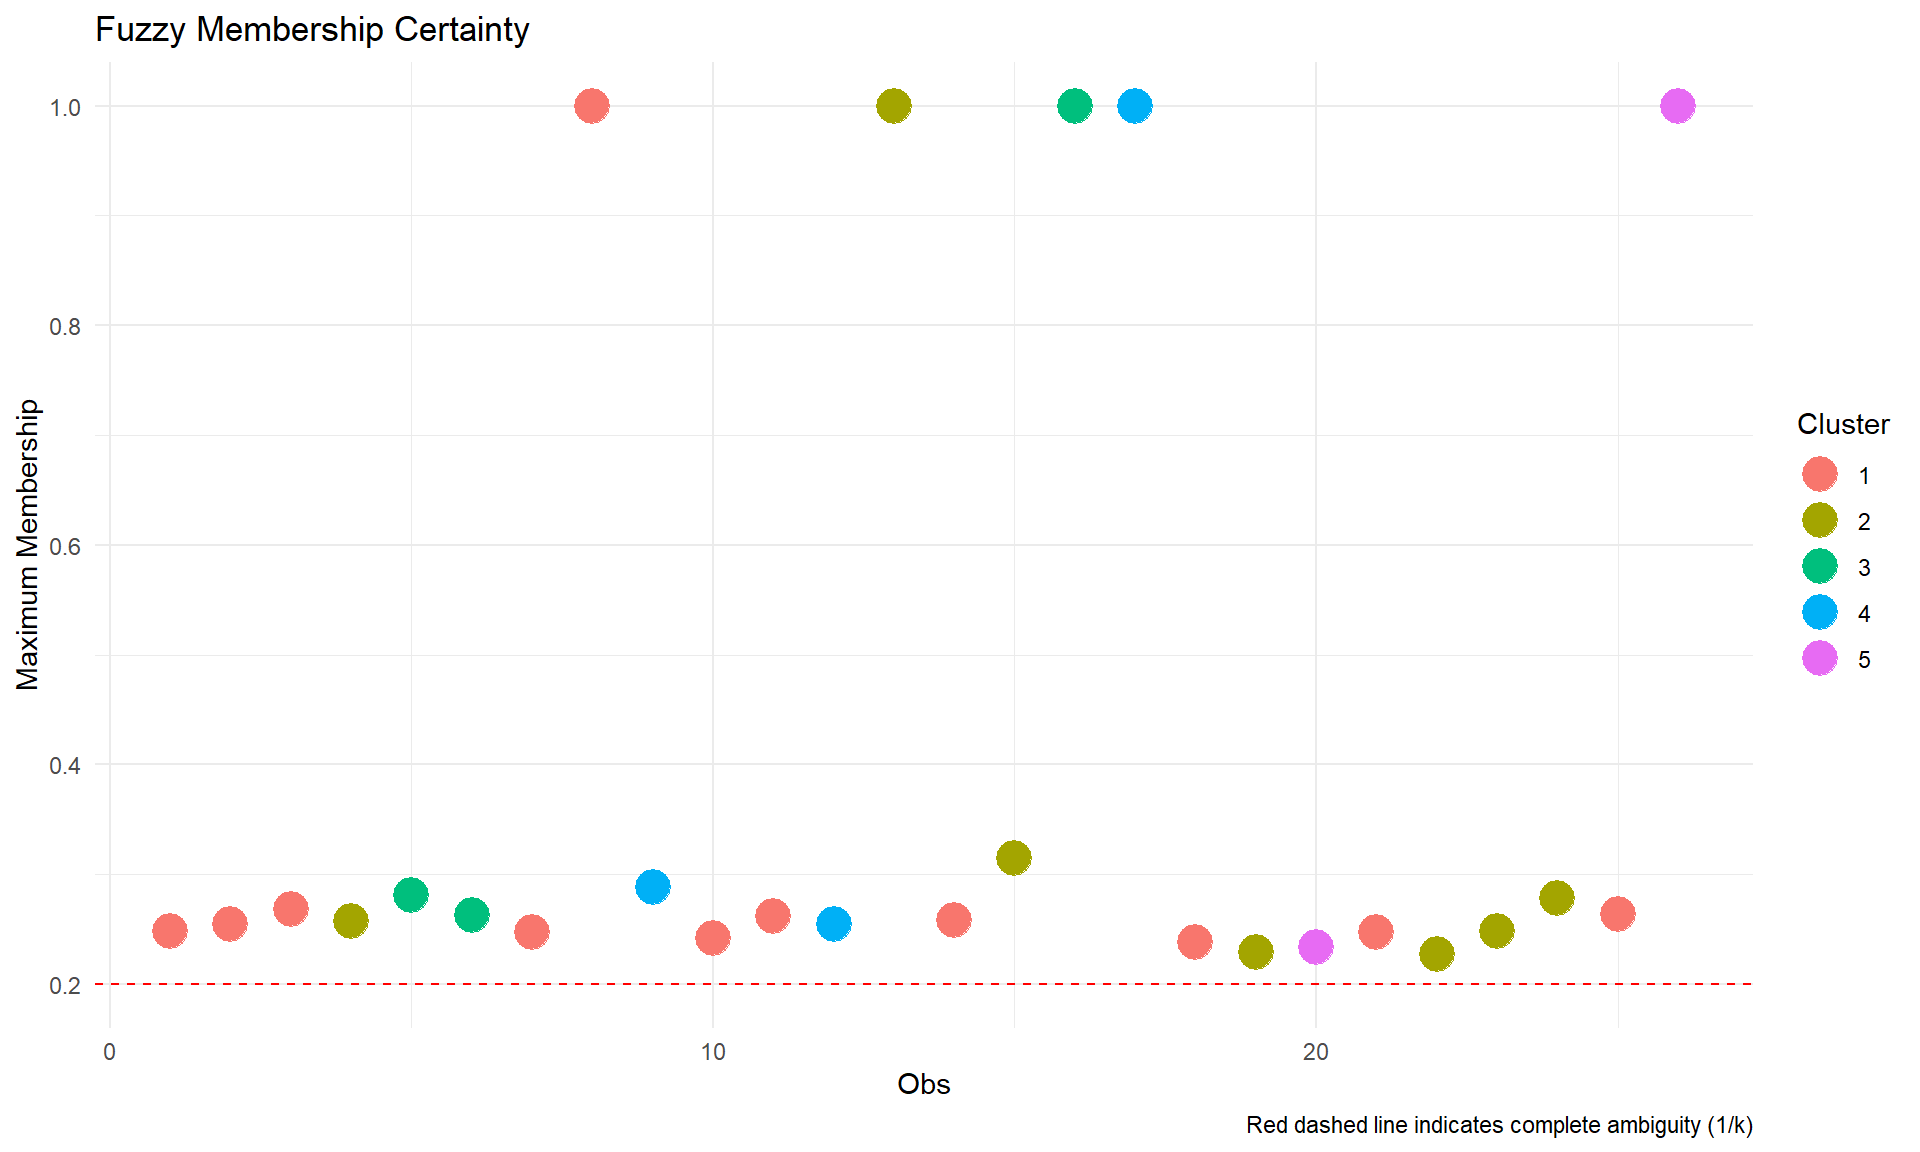
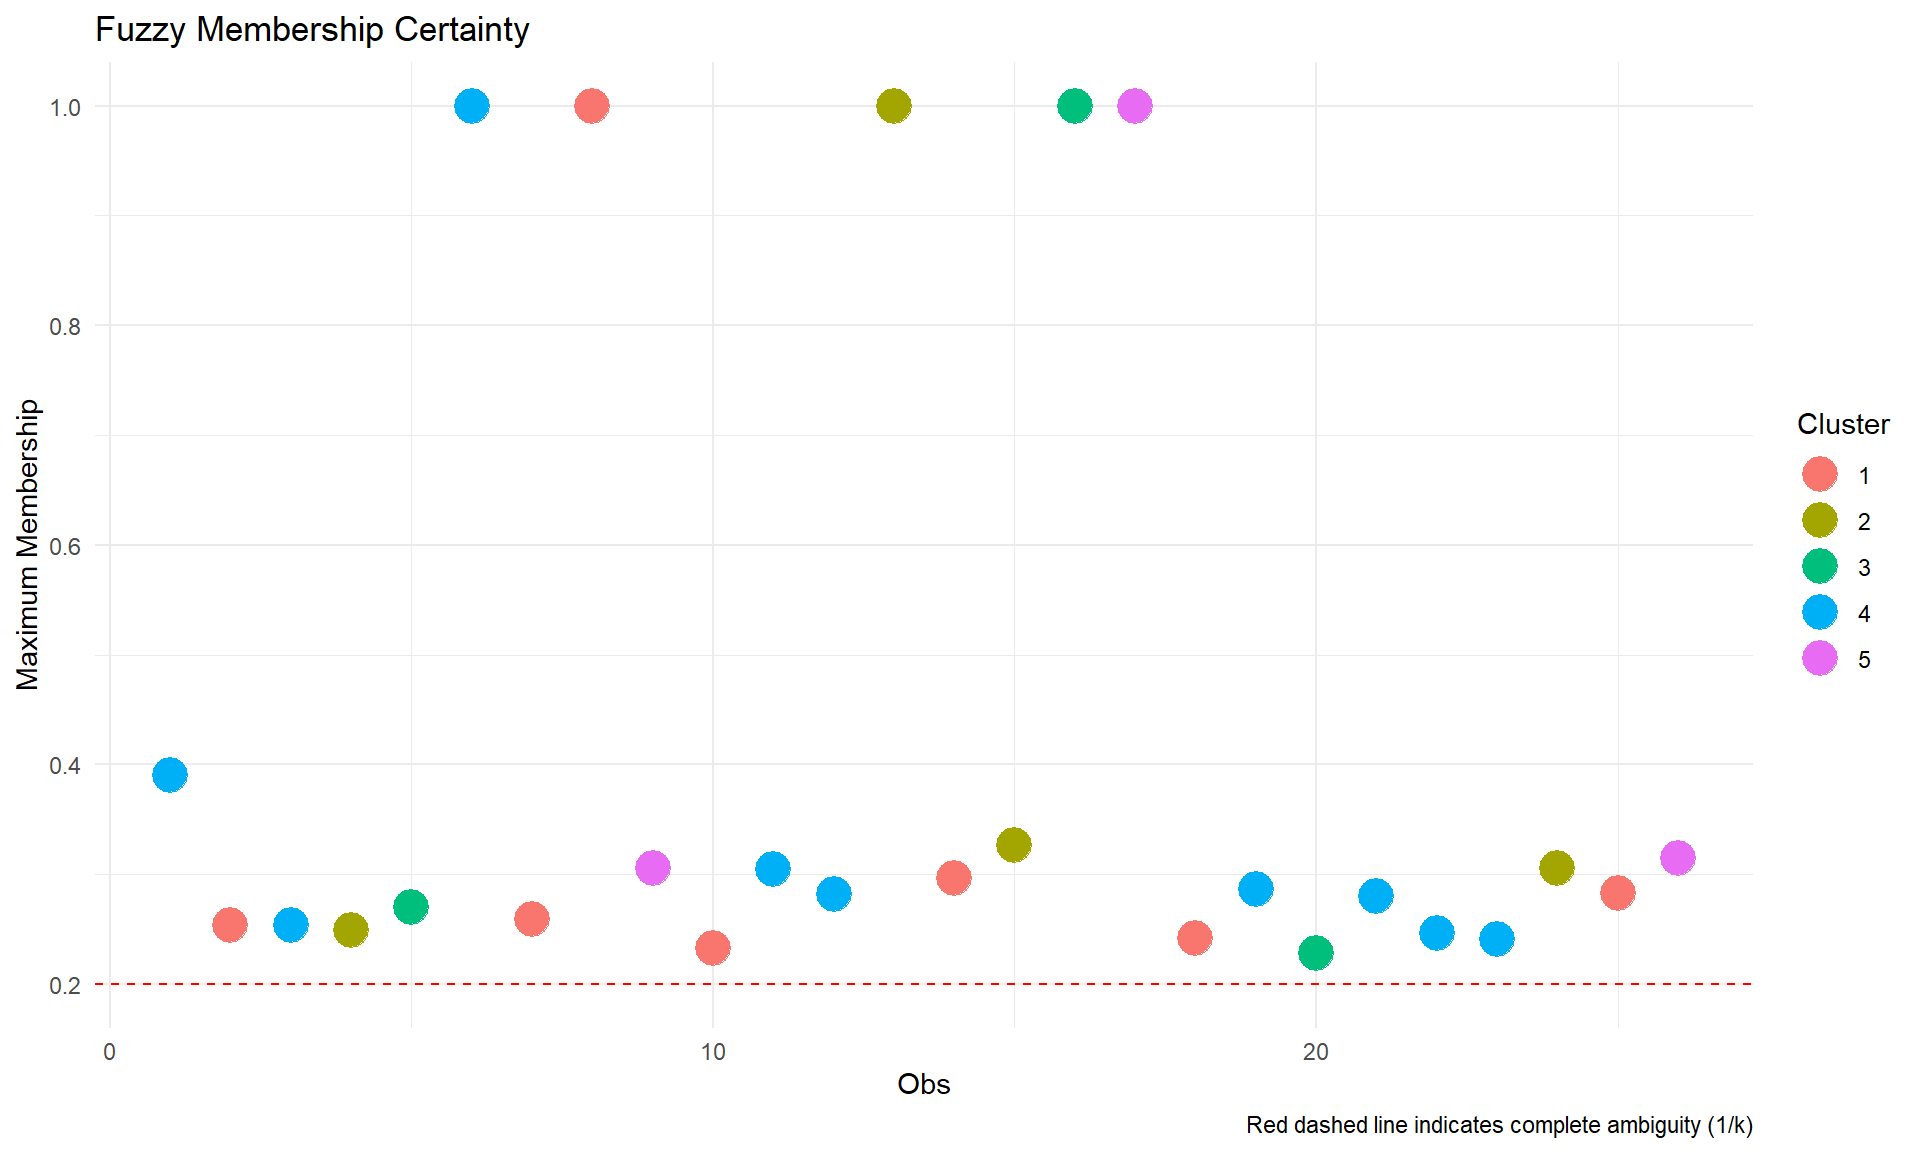
more same

diff --git a/Text/Reports/Report.html b/Text/Reports/Report.html
@@ -4270,7 +4270,7 @@ window.Quarto = {
 <p>Due to the ambiguous clustering, we opted to perform more cluster analyses to determine if this was a good fit.</p>
 <p>MANHATTAN NOT EUCLEDIAN.</p>
 <p><strong>3.3 Cluster Analysis</strong></p>
-<p>Hierarchical cluster using Manhattan Distance as a measure. Because more robust to outliers then Eucledian.</p>
+<p>Hierarchical cluster using Manhattan Distance as a measure. Because more robust to outliers then Eucledian etc.</p>
 <div class="cell">
 <div class="cell-output-display">
 <div>
@@ -4301,59 +4301,59 @@ window.Quarto = {
 <tbody>
 <tr class="odd">
 <td style="text-align: left;">2</td>
-<td style="text-align: right;">0.2478632</td>
-<td style="text-align: right;">0.2182820</td>
-<td style="text-align: right;">0.2164709</td>
-<td style="text-align: right;">0.1744604</td>
-<td style="text-align: right;">0.1429234</td>
+<td style="text-align: right;">0.1762421</td>
+<td style="text-align: right;">0.1552085</td>
+<td style="text-align: right;">0.1539207</td>
+<td style="text-align: right;">0.3905794</td>
+<td style="text-align: right;">0.1240493</td>
 </tr>
 <tr class="even">
 <td style="text-align: left;">3</td>
-<td style="text-align: right;">0.2546501</td>
-<td style="text-align: right;">0.1633232</td>
-<td style="text-align: right;">0.1910660</td>
-<td style="text-align: right;">0.1945034</td>
-<td style="text-align: right;">0.1964572</td>
+<td style="text-align: right;">0.2538351</td>
+<td style="text-align: right;">0.1628005</td>
+<td style="text-align: right;">0.1904545</td>
+<td style="text-align: right;">0.1990289</td>
+<td style="text-align: right;">0.1938810</td>
 </tr>
 <tr class="odd">
 <td style="text-align: left;">5</td>
-<td style="text-align: right;">0.2680416</td>
-<td style="text-align: right;">0.1717810</td>
-<td style="text-align: right;">0.2355131</td>
-<td style="text-align: right;">0.1701957</td>
-<td style="text-align: right;">0.1544686</td>
+<td style="text-align: right;">0.2366273</td>
+<td style="text-align: right;">0.1516484</td>
+<td style="text-align: right;">0.2079111</td>
+<td style="text-align: right;">0.2535644</td>
+<td style="text-align: right;">0.1502489</td>
 </tr>
 <tr class="even">
 <td style="text-align: left;">6</td>
-<td style="text-align: right;">0.2462050</td>
-<td style="text-align: right;">0.2574441</td>
-<td style="text-align: right;">0.1859054</td>
-<td style="text-align: right;">0.1772905</td>
-<td style="text-align: right;">0.1331549</td>
+<td style="text-align: right;">0.2384493</td>
+<td style="text-align: right;">0.2493343</td>
+<td style="text-align: right;">0.1800492</td>
+<td style="text-align: right;">0.1604615</td>
+<td style="text-align: right;">0.1717057</td>
 </tr>
 <tr class="odd">
 <td style="text-align: left;">8</td>
-<td style="text-align: right;">0.2576751</td>
-<td style="text-align: right;">0.1455334</td>
-<td style="text-align: right;">0.2812046</td>
-<td style="text-align: right;">0.1657537</td>
-<td style="text-align: right;">0.1498332</td>
+<td style="text-align: right;">0.2475332</td>
+<td style="text-align: right;">0.1398054</td>
+<td style="text-align: right;">0.2701366</td>
+<td style="text-align: right;">0.1832950</td>
+<td style="text-align: right;">0.1592298</td>
 </tr>
 <tr class="even">
 <td style="text-align: left;">9</td>
-<td style="text-align: right;">0.2329527</td>
-<td style="text-align: right;">0.2045676</td>
-<td style="text-align: right;">0.2626731</td>
-<td style="text-align: right;">0.1678411</td>
-<td style="text-align: right;">0.1319655</td>
+<td style="text-align: right;">0.0000000</td>
+<td style="text-align: right;">0.0000000</td>
+<td style="text-align: right;">0.0000000</td>
+<td style="text-align: right;">1.0000000</td>
+<td style="text-align: right;">0.0000000</td>
 </tr>
 <tr class="odd">
 <td style="text-align: left;">10</td>
-<td style="text-align: right;">0.2475159</td>
-<td style="text-align: right;">0.1640926</td>
-<td style="text-align: right;">0.2155267</td>
-<td style="text-align: right;">0.1643918</td>
-<td style="text-align: right;">0.2084730</td>
+<td style="text-align: right;">0.2590175</td>
+<td style="text-align: right;">0.1717177</td>
+<td style="text-align: right;">0.2255418</td>
+<td style="text-align: right;">0.1716921</td>
+<td style="text-align: right;">0.1720308</td>
 </tr>
 <tr class="even">
 <td style="text-align: left;">11</td>
@@ -4365,35 +4365,35 @@ window.Quarto = {
 </tr>
 <tr class="odd">
 <td style="text-align: left;">12</td>
-<td style="text-align: right;">0.2835971</td>
-<td style="text-align: right;">0.1917054</td>
-<td style="text-align: right;">0.1242925</td>
-<td style="text-align: right;">0.2885014</td>
-<td style="text-align: right;">0.1119036</td>
+<td style="text-align: right;">0.3005691</td>
+<td style="text-align: right;">0.2031781</td>
+<td style="text-align: right;">0.1317308</td>
+<td style="text-align: right;">0.0587552</td>
+<td style="text-align: right;">0.3057668</td>
 </tr>
 <tr class="even">
 <td style="text-align: left;">15</td>
-<td style="text-align: right;">0.2418673</td>
-<td style="text-align: right;">0.2276342</td>
-<td style="text-align: right;">0.1717754</td>
-<td style="text-align: right;">0.1705000</td>
-<td style="text-align: right;">0.1882231</td>
+<td style="text-align: right;">0.2324165</td>
+<td style="text-align: right;">0.2187395</td>
+<td style="text-align: right;">0.1650634</td>
+<td style="text-align: right;">0.2199428</td>
+<td style="text-align: right;">0.1638378</td>
 </tr>
 <tr class="odd">
 <td style="text-align: left;">16</td>
-<td style="text-align: right;">0.2621603</td>
-<td style="text-align: right;">0.1896658</td>
-<td style="text-align: right;">0.2351343</td>
-<td style="text-align: right;">0.1572324</td>
-<td style="text-align: right;">0.1558072</td>
+<td style="text-align: right;">0.2157932</td>
+<td style="text-align: right;">0.1561205</td>
+<td style="text-align: right;">0.1935472</td>
+<td style="text-align: right;">0.3051156</td>
+<td style="text-align: right;">0.1294234</td>
 </tr>
 <tr class="even">
 <td style="text-align: left;">18</td>
-<td style="text-align: right;">0.2033970</td>
-<td style="text-align: right;">0.1847368</td>
-<td style="text-align: right;">0.1823396</td>
-<td style="text-align: right;">0.2548897</td>
-<td style="text-align: right;">0.1746369</td>
+<td style="text-align: right;">0.1769465</td>
+<td style="text-align: right;">0.1607130</td>
+<td style="text-align: right;">0.1586275</td>
+<td style="text-align: right;">0.2819701</td>
+<td style="text-align: right;">0.2217429</td>
 </tr>
 <tr class="odd">
 <td style="text-align: left;">20</td>
@@ -4405,19 +4405,19 @@ window.Quarto = {
 </tr>
 <tr class="even">
 <td style="text-align: left;">23</td>
-<td style="text-align: right;">0.2581919</td>
-<td style="text-align: right;">0.1366234</td>
-<td style="text-align: right;">0.2247586</td>
-<td style="text-align: right;">0.1675732</td>
-<td style="text-align: right;">0.2128529</td>
+<td style="text-align: right;">0.2968902</td>
+<td style="text-align: right;">0.1571009</td>
+<td style="text-align: right;">0.2584459</td>
+<td style="text-align: right;">0.0948735</td>
+<td style="text-align: right;">0.1926895</td>
 </tr>
 <tr class="odd">
 <td style="text-align: left;">24</td>
-<td style="text-align: right;">0.2234546</td>
-<td style="text-align: right;">0.3145997</td>
-<td style="text-align: right;">0.1673139</td>
-<td style="text-align: right;">0.1923180</td>
-<td style="text-align: right;">0.1023137</td>
+<td style="text-align: right;">0.2316784</td>
+<td style="text-align: right;">0.3261780</td>
+<td style="text-align: right;">0.1734716</td>
+<td style="text-align: right;">0.0692759</td>
+<td style="text-align: right;">0.1993960</td>
 </tr>
 <tr class="even">
 <td style="text-align: left;">26</td>
@@ -4432,80 +4432,80 @@ window.Quarto = {
 <td style="text-align: right;">0.0000000</td>
 <td style="text-align: right;">0.0000000</td>
 <td style="text-align: right;">0.0000000</td>
-<td style="text-align: right;">1.0000000</td>
 <td style="text-align: right;">0.0000000</td>
+<td style="text-align: right;">1.0000000</td>
 </tr>
 <tr class="even">
 <td style="text-align: left;">29</td>
-<td style="text-align: right;">0.2378132</td>
-<td style="text-align: right;">0.1684142</td>
-<td style="text-align: right;">0.2189088</td>
-<td style="text-align: right;">0.1923234</td>
-<td style="text-align: right;">0.1825405</td>
+<td style="text-align: right;">0.2414557</td>
+<td style="text-align: right;">0.1709938</td>
+<td style="text-align: right;">0.2222618</td>
+<td style="text-align: right;">0.1700195</td>
+<td style="text-align: right;">0.1952692</td>
 </tr>
 <tr class="odd">
 <td style="text-align: left;">30</td>
-<td style="text-align: right;">0.2153151</td>
-<td style="text-align: right;">0.2287914</td>
-<td style="text-align: right;">0.1996461</td>
-<td style="text-align: right;">0.1903551</td>
-<td style="text-align: right;">0.1658923</td>
+<td style="text-align: right;">0.1842854</td>
+<td style="text-align: right;">0.1958196</td>
+<td style="text-align: right;">0.1708745</td>
+<td style="text-align: right;">0.2860979</td>
+<td style="text-align: right;">0.1629225</td>
 </tr>
 <tr class="even">
 <td style="text-align: left;">31</td>
-<td style="text-align: right;">0.1968916</td>
-<td style="text-align: right;">0.1685134</td>
-<td style="text-align: right;">0.2231631</td>
-<td style="text-align: right;">0.1782442</td>
-<td style="text-align: right;">0.2331877</td>
+<td style="text-align: right;">0.2012858</td>
+<td style="text-align: right;">0.1722743</td>
+<td style="text-align: right;">0.2281437</td>
+<td style="text-align: right;">0.2160739</td>
+<td style="text-align: right;">0.1822222</td>
 </tr>
 <tr class="odd">
 <td style="text-align: left;">32</td>
-<td style="text-align: right;">0.2473063</td>
-<td style="text-align: right;">0.1984818</td>
-<td style="text-align: right;">0.1951062</td>
-<td style="text-align: right;">0.1723422</td>
-<td style="text-align: right;">0.1867636</td>
+<td style="text-align: right;">0.2189416</td>
+<td style="text-align: right;">0.1757170</td>
+<td style="text-align: right;">0.1727286</td>
+<td style="text-align: right;">0.2800373</td>
+<td style="text-align: right;">0.1525755</td>
 </tr>
 <tr class="even">
 <td style="text-align: left;">33</td>
-<td style="text-align: right;">0.1901525</td>
-<td style="text-align: right;">0.2268522</td>
-<td style="text-align: right;">0.1964418</td>
-<td style="text-align: right;">0.2026213</td>
-<td style="text-align: right;">0.1839323</td>
+<td style="text-align: right;">0.1755171</td>
+<td style="text-align: right;">0.2093921</td>
+<td style="text-align: right;">0.1813223</td>
+<td style="text-align: right;">0.2467425</td>
+<td style="text-align: right;">0.1870261</td>
 </tr>
 <tr class="odd">
 <td style="text-align: left;">34</td>
-<td style="text-align: right;">0.2114673</td>
-<td style="text-align: right;">0.2483055</td>
-<td style="text-align: right;">0.1868847</td>
-<td style="text-align: right;">0.1891239</td>
-<td style="text-align: right;">0.1642186</td>
+<td style="text-align: right;">0.1919549</td>
+<td style="text-align: right;">0.2253940</td>
+<td style="text-align: right;">0.1696406</td>
+<td style="text-align: right;">0.2413373</td>
+<td style="text-align: right;">0.1716732</td>
 </tr>
 <tr class="even">
 <td style="text-align: left;">35</td>
-<td style="text-align: right;">0.2164986</td>
-<td style="text-align: right;">0.2786439</td>
-<td style="text-align: right;">0.1518448</td>
-<td style="text-align: right;">0.1995384</td>
-<td style="text-align: right;">0.1534743</td>
+<td style="text-align: right;">0.2374526</td>
+<td style="text-align: right;">0.3056127</td>
+<td style="text-align: right;">0.1665412</td>
+<td style="text-align: right;">0.0715426</td>
+<td style="text-align: right;">0.2188509</td>
 </tr>
 <tr class="odd">
 <td style="text-align: left;">36</td>
-<td style="text-align: right;">0.2641219</td>
-<td style="text-align: right;">0.1955117</td>
-<td style="text-align: right;">0.1925055</td>
-<td style="text-align: right;">0.1882065</td>
-<td style="text-align: right;">0.1596544</td>
+<td style="text-align: right;">0.2830368</td>
+<td style="text-align: right;">0.2095130</td>
+<td style="text-align: right;">0.2062916</td>
+<td style="text-align: right;">0.0994738</td>
+<td style="text-align: right;">0.2016847</td>
 </tr>
 <tr class="even">
 <td style="text-align: left;">37</td>
-<td style="text-align: right;">0.0000000</td>
-<td style="text-align: right;">0.0000000</td>
-<td style="text-align: right;">0.0000000</td>
-<td style="text-align: right;">0.0000000</td>
-<td style="text-align: right;">1.0000000</td>
+<td style="text-align: right;">0.2418423</td>
+<td style="text-align: right;">0.1910217</td>
+<td style="text-align: right;">0.1747499</td>
+<td style="text-align: right;">0.0777561</td>
+<td style="text-align: right;">0.3146300</td>
 </tr>
 </tbody>
 </table>
@@ -4514,13 +4514,13 @@ window.Quarto = {
 <pre><code>The default value alpha=1 has been set </code></pre>
 </div>
 <div class="cell-output cell-output-stdout">
-<pre><code>     cluster neighbor    sil_width
-[1,]       1        2 -0.225088173
-[2,]       1        3  0.009173198
-[3,]       1        3 -0.195138395
-[4,]       2        3 -0.171065838
-[5,]       3        1  0.136928460
-[6,]       3        2  0.095024031</code></pre>
+<pre><code>     cluster neighbor   sil_width
+[1,]       4        2  0.27791998
+[2,]       1        3  0.03192621
+[3,]       4        3 -0.20726380
+[4,]       2        5  0.16927964
+[5,]       3        1 -0.08012135
+[6,]       4        3  0.12904338</code></pre>
 </div>
 <div class="cell-output-display">
 <div>
